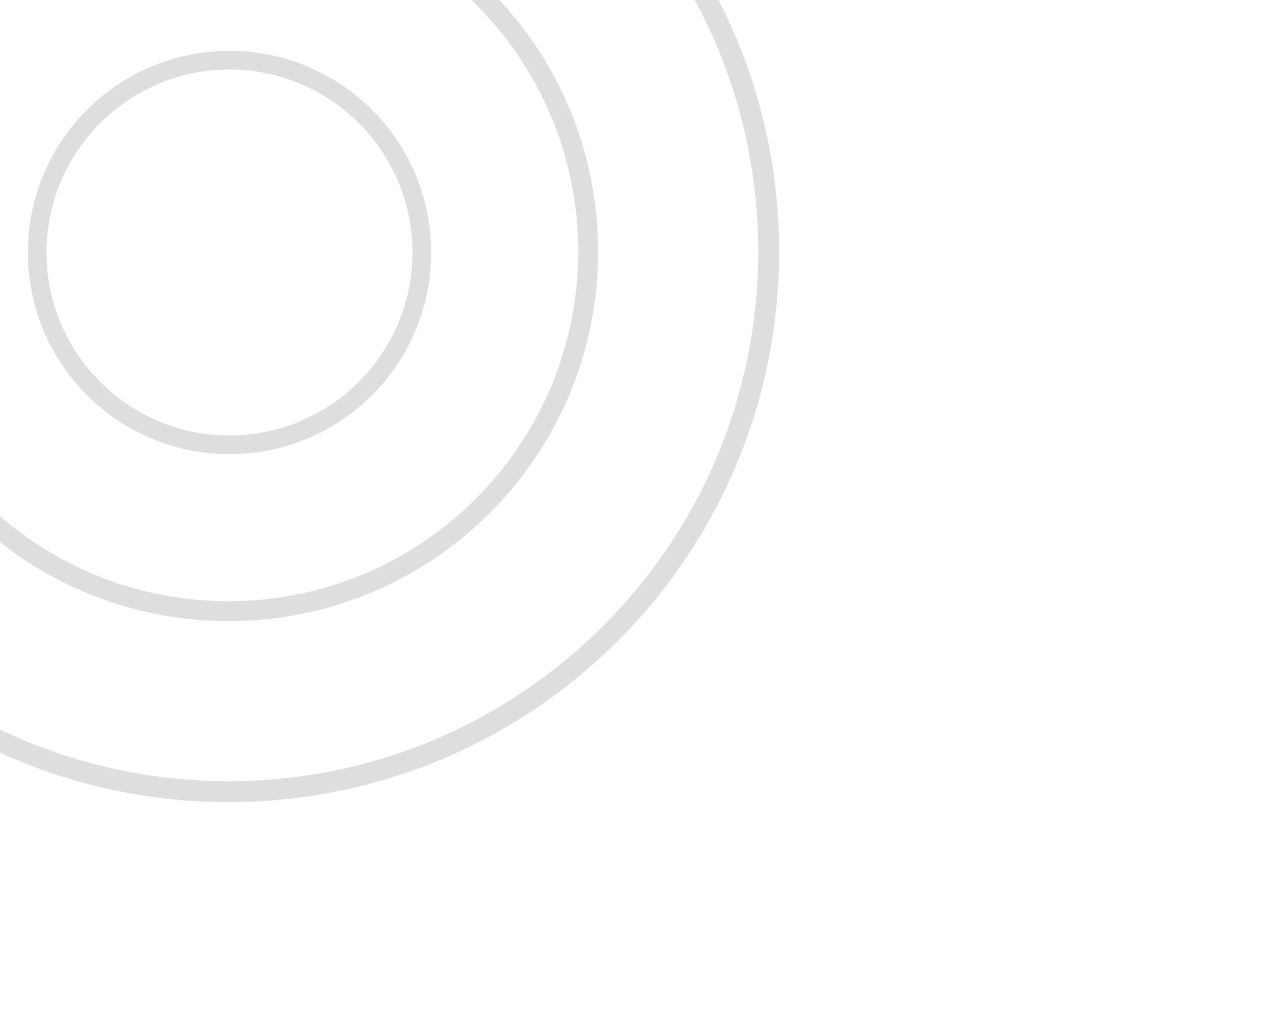
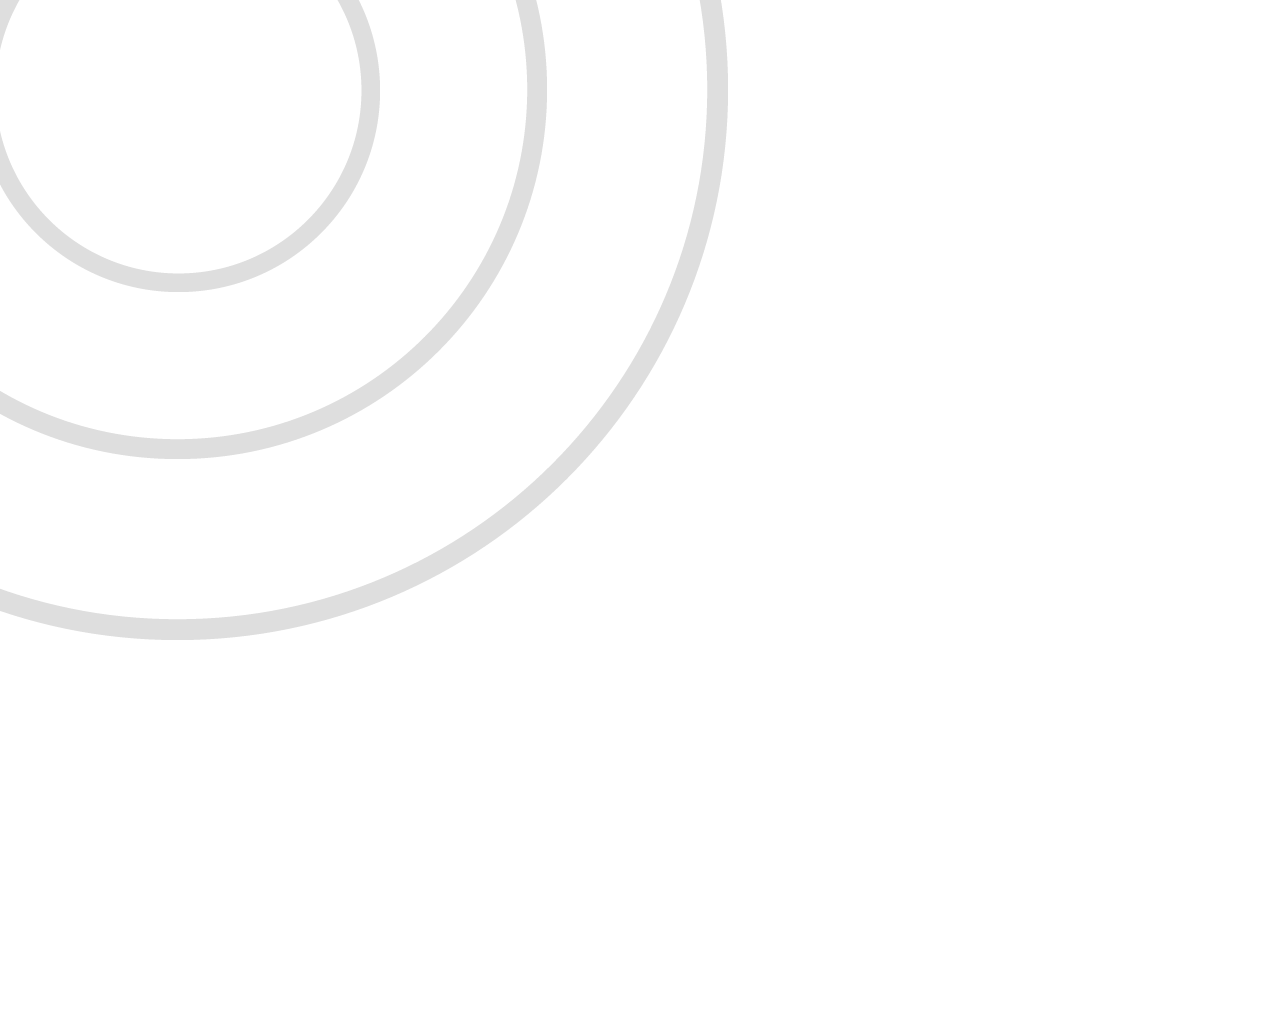
more rings\!

Changed region(s): [[0.0, 0.0, 0.625, 0.7812], [0.1875, 0.4062, 0.25, 0.4375], [0.0, 0.0, 0.0312, 0.0312]]

diff --git a/media/css/base.css b/media/css/base.css
@@ -166,6 +166,7 @@ ol#comment-list li .comment-author, ol#comment-list li .pingback-author, ol#comm
 }
 
 #news .video {
+  background-image: none;
   background-color: transparent;
   width: 800px;
   margin: 0px 0 0 0;
@@ -500,7 +501,7 @@ ol#comment-list li .comment-author, ol#comment-list li .pingback-author, ol#comm
   margin: 30px 6px; 
   border-spacing: 0px;
   vertical-align: top;
-  background-color: rgb(192, 192, 192);
+  background: url('/media/wtv-rings-small.png') rgb(192, 192, 192) no-repeat left center;
   width: 800px;
 /*  min-height: 390px;*/
   float: left;
@@ -568,16 +569,16 @@ ol#comment-list li .comment-author, ol#comment-list li .pingback-author, ol#comm
   list-style-type: none;
 }
  
-#shoutbox li .post, #container{
-  background: rgb(92, 92, 92) !important;
-  padding: 5px;
+#shoutbox li .post, #container {
+  background: url('/media/shoutbox-bottom.png') rgb(92, 92, 92) no-repeat center bottom !important;
+  padding: 5px 5px 42px 5px;
   color: #fff !important;
   -webkit-border-radius: 5px;
   -moz-border-radius: 5px;
   border-radius: 5px;
-  box-shadow: 0px 0px 6px rgba(0,0,0,0.3);
+/*  box-shadow: 0px 0px 6px rgba(0,0,0,0.3);
   -webkit-box-shadow: 0px 0px 6px rgba(0,0,0,0.3);  
-  -moz-box-shadow: 0px 0px 6px rgba(0,0,0,0.3);
+  -moz-box-shadow: 0px 0px 6px rgba(0,0,0,0.3);*/
   font-weight: normal;
   margin: 30px 0px;
 }
